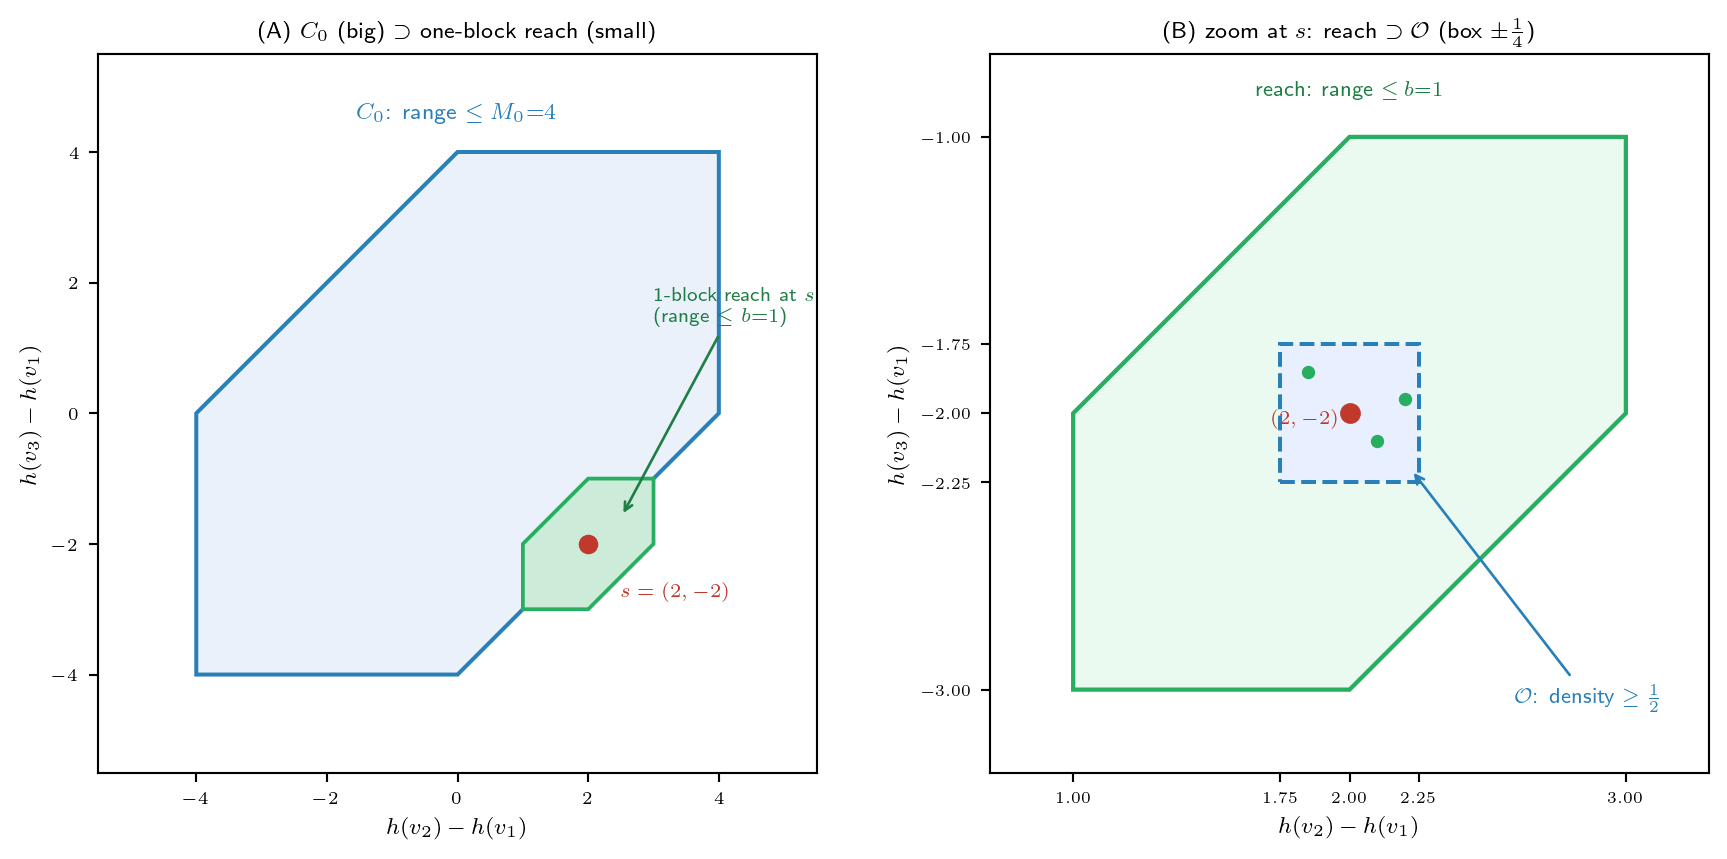
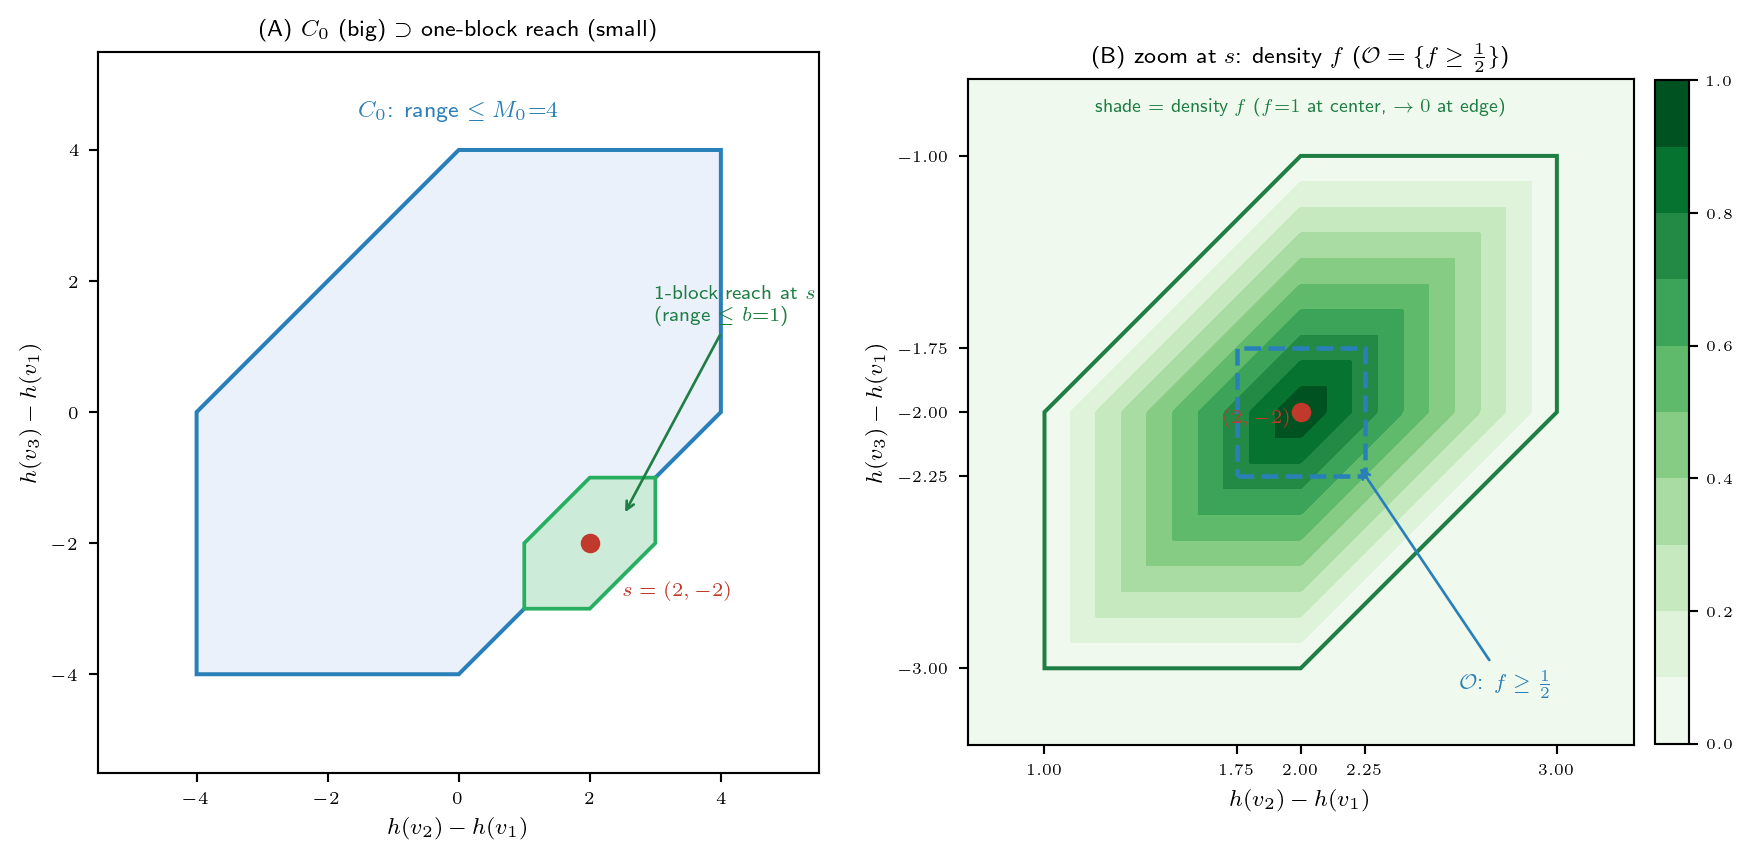
post(update): petite/K3 — oneblock 패널B에 한블록 밀도 f 음영 덧칠
contourf로 f 시각화: 중심 f=1, O=f≥½ 핵심부, 육각형 가장자리서 f→0. colorbar 추가.

diff --git a/docs/Posts/260605_c4e5ad.html b/docs/Posts/260605_c4e5ad.html
@@ -235,7 +235,7 @@ window.Quarto = {
 <p><strong>(1) 높이차 <span class="math inline">\(\Delta_1\mathbf{h}\)</span></strong> — <span class="math inline">\(v_1\)</span>을 기준으로 뺀 anchored 높이차: <span class="math display">\[\Delta_1\mathbf{h}(s) = \bigl(h(v_2) - h(v_1),\ h(v_3) - h(v_1)\bigr) = (7-5,\ 3-5) = (2, -2).\]</span></p>
 <p><strong>(2) 현재 노드 <span class="math inline">\(X\)</span></strong> — walker가 지금 있는 노드 (예: <span class="math inline">\(v_1\)</span>).</p>
 <p>→ 우리 예제의 상태는 <span class="math inline">\(s = \bigl((2,-2),\ v_1\bigr)\)</span>이다. (<span class="math inline">\(\Delta_1\mathbf{h}\)</span>가 절대높이 <span class="math inline">\(5,7,3\)</span>을 안 기억해도 되는 이유: 눈은 모든 노드에 똑같이 와 닿는 게 아니라 <strong>높이차</strong>만 동역학에 들어오기 때문. 높이를 통째로 <span class="math inline">\(+10\)</span> 해도 같은 상태.)</p>
-<div id="94f40561" class="cell" data-execution_count="1">
+<div id="b4154f56" class="cell" data-execution_count="1">
 <div class="cell-output cell-output-display">
 <div>
 <figure class="figure">
@@ -254,7 +254,7 @@ window.Quarto = {
 </blockquote>
 <p><strong>먼저 <span class="math inline">\(s\)</span>가 어디의 원소인지</strong> 못박자. 라운드 스켈레톤의 상태공간은 <span class="math display">\[\bar{\mathcal{X}} \;=\; \mathbb{R}^{n-1} \times V \;=\; \mathbb{R}^2 \times \{v_1, v_2, v_3\},\]</span> 즉 상태는 <span class="math inline">\(s = (\Delta_1\mathbf{h},\ X)\)</span> — <strong>(높이차 벡터, 현재 노드)</strong> 쌍이다. 우리 예제에선 <span class="math display">\[s = \bigl((2,-2),\ v_1\bigr) \in \bar{\mathcal{X}}.\]</span></p>
 <p>후보 small set은 <strong>높이차 범위가 <span class="math inline">\(M_0\)</span> 이하인 상태들</strong>. 좌표 약자로 <span class="math inline">\(u_1 := h(v_2)-h(v_1)\)</span>, <span class="math inline">\(u_2 := h(v_3)-h(v_1)\)</span> (<span class="math inline">\(\Delta_1\mathbf{h}=(u_1,u_2)\)</span>)라 두면, 범위 <span class="math inline">\(M(s)\)</span>는 anchored 높이 <span class="math inline">\(\{0, u_1, u_2\}\)</span>의 최대−최소 = 최대 pairwise 거리: <span class="math display">\[M(s) = \max\bigl(|u_1|,\ |u_2|,\ |u_1 - u_2|\bigr).\]</span> 따라서 <strong>closed form</strong>으로 (<span class="math inline">\(M\)</span>은 <span class="math inline">\(\Delta_1\mathbf{h}\)</span> 좌표에만 의존, 노드 <span class="math inline">\(X\)</span>는 자유): <span class="math display">\[C_0 = \bigl\{\, (u_1,u_2) : |u_1| \leq M_0,\ |u_2| \leq M_0,\ |u_1 - u_2| \leq M_0 \,\bigr\} \times V\]</span> — 세 띠의 교집합인 <strong>육각형</strong> <span class="math inline">\(\times V\)</span>. 이 예제 <span class="math inline">\(M_0 := 4\)</span>. 우리 <span class="math inline">\(s=(2,-2)\)</span>: <span class="math inline">\((|u_1|, |u_2|, |u_1-u_2|) = (2, 2, 4)\)</span> 모두 <span class="math inline">\(\leq 4\)</span> → <span class="math inline">\(s \in C_0\)</span> (마지막이 <span class="math inline">\(=4\)</span>라 육각형 <strong>경계</strong> 위).</p>
-<div id="93188a07" class="cell" data-execution_count="2">
+<div id="44a1264e" class="cell" data-execution_count="2">
 <div class="cell-output cell-output-display">
 <div>
 <figure class="figure">
@@ -288,18 +288,18 @@ window.Quarto = {
 </ul>
 <p>위 밀도 하한의 유도 (왜 <span class="math inline">\(\mathcal{O}\)</span> 위에서만 <span class="math inline">\(f \geq \tfrac12\)</span>인가): 증분 밀도 <span class="math inline">\(f\)</span>는 <span class="math inline">\(b^{\sharp}_1\)</span>을 적분해 없앤 것인데, 모든 <span class="math inline">\(|b^{\sharp}_i - b^{\sharp}_1| &lt; b/4\)</span>일 때 적분 구간이 길이 <span class="math inline">\(\geq b/2\)</span>를 품어 <span class="math inline">\(f \geq b^{1-n}/2\)</span>로 떨어진다 (<span class="math inline">\(b{=}1, n{=}3\)</span>이라 <span class="math inline">\(\tfrac12\)</span>). 그 조건이 정확히 <span class="math inline">\(\widetilde{\mathbf{b}}^{\sharp} \in \mathcal{O}\)</span>.</p>
 <p><strong>주의 — <span class="math inline">\(\mathcal{O}\)</span>는 “한 블록으로 갈 수 있는 전부”가 아니다.</strong> 증분 <span class="math inline">\(\widetilde{\mathbf{b}}^{\sharp} = (b^{\sharp}_2 - b^{\sharp}_1,\ b^{\sharp}_3 - b^{\sharp}_1)\)</span>은 각 <span class="math inline">\(b^{\sharp}_i \in [0,b]\)</span>라, 실제 <strong>도달 영역</strong>은 박스가 아니라 <strong>육각형</strong> <span class="math display">\[\{\, (x,y) : |x| \leq b,\ |y| \leq b,\ |x - y| \leq b \,\}\]</span> 이다 (증분도 높이차 벡터라 range <span class="math inline">\(\leq b=1\)</span> — <span class="math inline">\(C_0\)</span>와 똑같은 모양!). 예컨대 모서리 <span class="math inline">\((b, -b)\)</span>는 <span class="math inline">\(b^{\sharp}_1\)</span>을 공유하는 제약 때문에 도달 불가(<span class="math inline">\(|x-y|=2b &gt; b\)</span>). 박스 <span class="math inline">\(\mathcal{O}\)</span>(한 좌표 <span class="math inline">\(\pm b/4\)</span>)는 그 육각형 <strong>안쪽의 밀도 <span class="math inline">\(\geq \tfrac12\)</span> 보장 부분</strong>일 뿐이다. 증명이 박스만 쓰는 이유: 깔끔한 밀도 하한 <span class="math inline">\(b^{1-n}/2\)</span>가 거기서만 나오기 때문 (육각형 안·박스 밖은 밀도가 양수지만 그 하한은 안 나옴). 아래 그림은 (A) <strong>큰 <span class="math inline">\(C_0\)</span> 안에 한 블록 도달역(작은 육각형)이 작게 들어있는 모습</strong> — 둘 다 “range ≤ 상수” 꼴이라 닮았지만 <span class="math inline">\(C_0\)</span>는 원점 중심·크기 <span class="math inline">\(M_0{=}4\)</span>, 도달역은 <span class="math inline">\(s{=}(2,-2)\)</span> 중심·크기 <span class="math inline">\(b{=}1\)</span>로 별개 — 과 (B) 그 도달역 줌인(도달 육각형 <span class="math inline">\(\supset\)</span> 밀도박스 <span class="math inline">\(\mathcal{O}\)</span>)을 보여준다.</p>
-<div id="999236ac" class="cell" data-execution_count="3">
+<div id="1f6c1e62" class="cell" data-execution_count="3">
 <div class="cell-output cell-output-display">
 <div>
 <figure class="figure">
-<p><img src="260605_유진_HST_petite_smallset_K3_files/figure-html/cell-4-output-1.png" width="864" height="430" class="figure-img"></p>
+<p><img src="260605_유진_HST_petite_smallset_K3_files/figure-html/cell-4-output-1.png" width="876" height="430" class="figure-img"></p>
 </figure>
 </div>
 </div>
 </div>
 <p>한 블록은 <span class="math inline">\(\Delta_1\mathbf{h}\)</span>를 육각형(range <span class="math inline">\(\leq b\)</span>)만큼 밀 수 있고, 그중 <strong>밀도 하한 <span class="math inline">\(f \geq \tfrac12\)</span>을 갖는</strong> 부분이 박스 <span class="math inline">\(\mathcal{O}\)</span>(한 좌표 <span class="math inline">\(\pm\tfrac14\)</span>)다. (<span class="math inline">\(L\)</span>블록 누적 버전은 ② 참조.)</p>
 <p><strong>② <span class="math inline">\(L\cdot\mathcal{O}\)</span> — <span class="math inline">\(L\)</span>블록이 도달하는 영역 (Minkowski 합).</strong> <span class="math display">\[L := \Bigl\lceil \tfrac{16M_0}{b} + 1 \Bigr\rceil.\]</span> <span class="math inline">\(M_0 = 4\)</span>, <span class="math inline">\(b = 1\)</span>이라 <span class="math inline">\(L = \lceil 16\cdot 4 + 1 \rceil = 65\)</span>. 그러면 <span class="math inline">\(L\cdot\mathcal{O} = (-\tfrac{L}{4}, \tfrac{L}{4})^2 = (-16.25, 16.25)^2\)</span> — <strong>출발 <span class="math inline">\(\Delta_1\mathbf{h}(s)=(2,-2)\)</span>를 원점 근처로 끌어내릴 만큼 넉넉</strong>하다. (falls가 채울 변위 <span class="math inline">\(y = u - \Delta_1\mathbf{h}(s) - \mathbf{r} \approx (0,0)-(2,-2) = (-2,2)\)</span>가 <span class="math inline">\(\pm 16\)</span> 안에 푹 들어옴.)</p>
-<div id="d7ad0cdf" class="cell" data-execution_count="4">
+<div id="33cb7f00" class="cell" data-execution_count="4">
 <div class="cell-output cell-output-display">
 <div>
 <figure class="figure">
@@ -315,7 +315,7 @@ window.Quarto = {
 <li><strong>등호 초평면 회피:</strong> 등호면 <span class="math inline">\(\{\widetilde{u}_i = \widetilde{u}_j\}\)</span>가 <span class="math inline">\(\mathcal{O}\)</span> 안을 지나니, <span class="math inline">\(U\)</span>를 <span class="math inline">\(\mathcal{O}^\dagger\)</span> 안에서 그 초평면들과 <span class="math inline">\(\kappa_U\)</span> 떨어뜨려 잡아 퇴화 비교를 robust하게 만든다 (아래 ④, 조건 <span class="math inline">\((\ast)\)</span>).</li>
 <li><strong><span class="math inline">\(L\)</span>-포함 보장:</strong> <span class="math inline">\(U\)</span>가 작은 <span class="math inline">\(\mathcal{O}^\dagger\)</span>에 있어야 목표 집합 <span class="math inline">\(K_U^\varrho = \{u - \Delta_1\mathbf{h}(s) - r\}\)</span>가 <span class="math inline">\(\operatorname{int}(L\cdot\mathcal{O})\)</span> 안에 컴팩트하게 든다 (<span class="math inline">\(K_U^\varrho \Subset \operatorname{int}(L\cdot\mathcal{O})\)</span>, <span class="math inline">\(L \geq 16M_0/b+1\)</span>로 가능).</li>
 </ol>
-<div id="47bba07e" class="cell" data-execution_count="5">
+<div id="6eb2feb8" class="cell" data-execution_count="5">
 <div class="cell-output cell-output-display">
 <div>
 <figure class="figure">
@@ -340,7 +340,7 @@ window.Quarto = {
 <li><strong>위치에 의미 있는 단 하나:</strong> chamber 중심 <span class="math inline">\(\tfrac{b}{128n}(1,2,\ldots,n-1)\)</span>은 높이가 살짝 <strong>증가</strong>(<span class="math inline">\(v_n\)</span> 최고)하게 잡혔다 — 끝노드 <span class="math inline">\(v_n\)</span> pinning(<span class="math inline">\(\delta_{v_n}\)</span>) 때문. 즉 “원점 자체”가 아니라 “원점에서 <span class="math inline">\(v_n\)</span> 쪽으로 미세하게 기운 작은 공”이고, 이건 pinning용이지 원점이라서가 아니다.</li>
 </ul>
 <p><strong>요컨대</strong> <span class="math inline">\(U\)</span>의 위치는 “<span class="math inline">\(\bigcap_{s\in C_0}(s+L\cdot\mathcal{O})\)</span> (원점 중심 큰 영역) 안 <span class="math inline">\(+\)</span> ties 밖”이면 <strong>자유</strong>다. 원점 근처에 둔 건 대칭 중심의 최대-여유 <em>편의 선택</em>(<span class="math inline">\(+\,v_n\)</span> pinning용 미세 기울기)이지 필연이 아니다.</p>
-<div id="ca6e8b2f" class="cell" data-execution_count="6">
+<div id="8eb5ffba" class="cell" data-execution_count="6">
 <div class="cell-output cell-output-display">
 <div>
 <figure class="figure">
